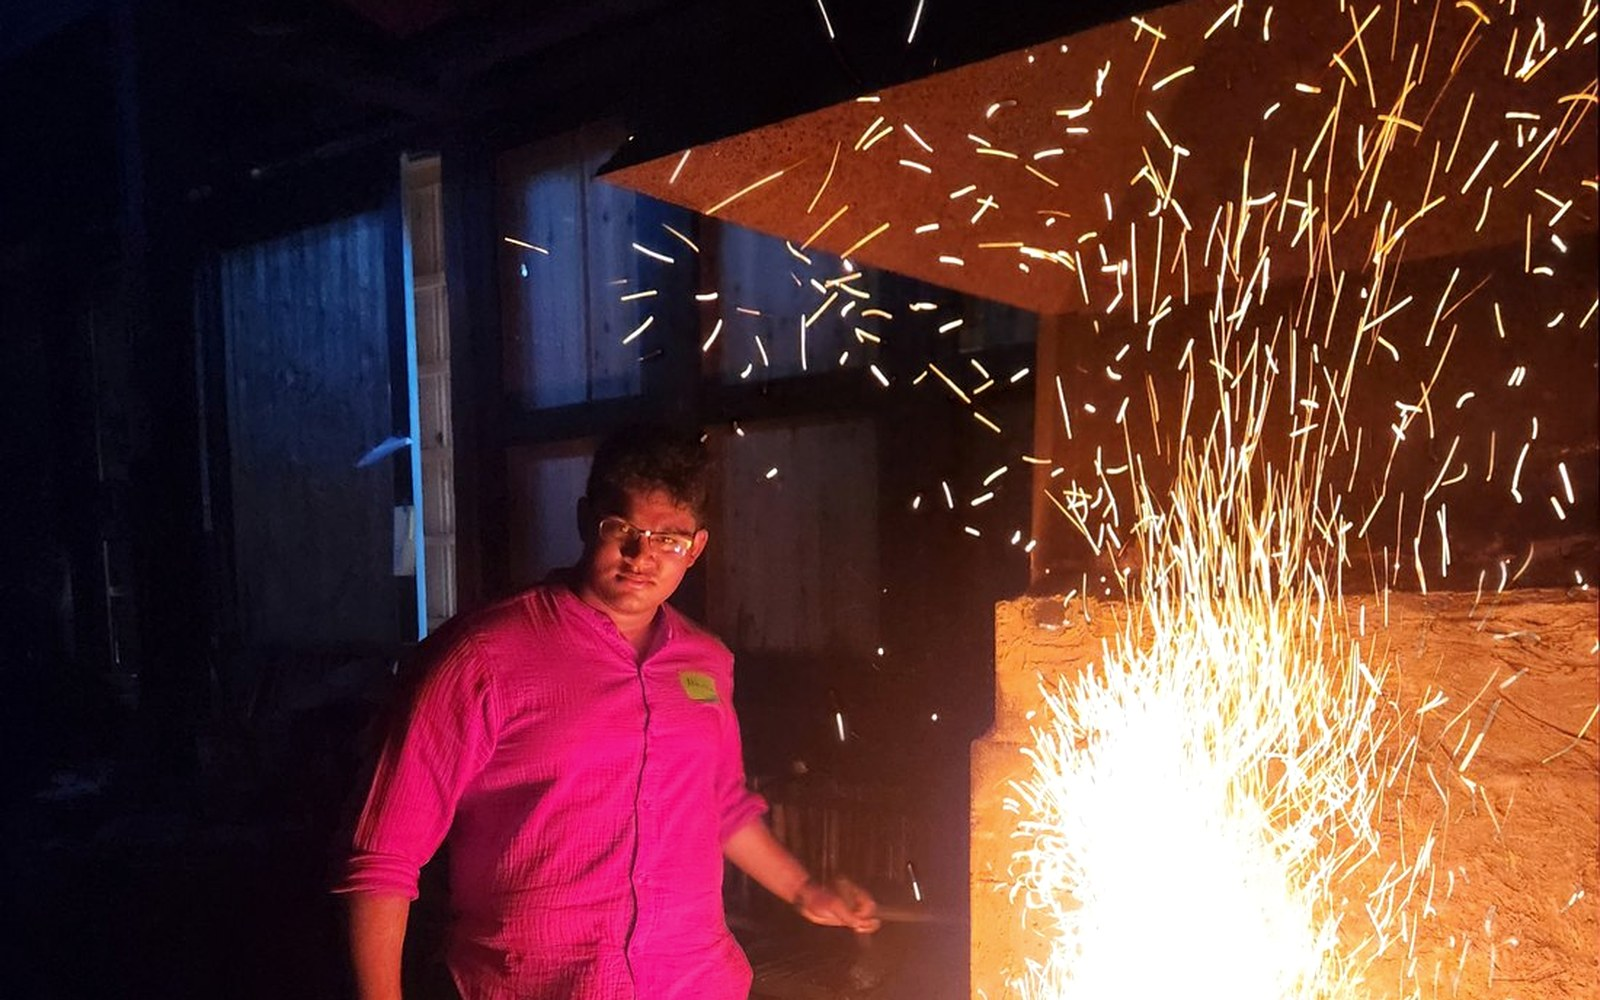
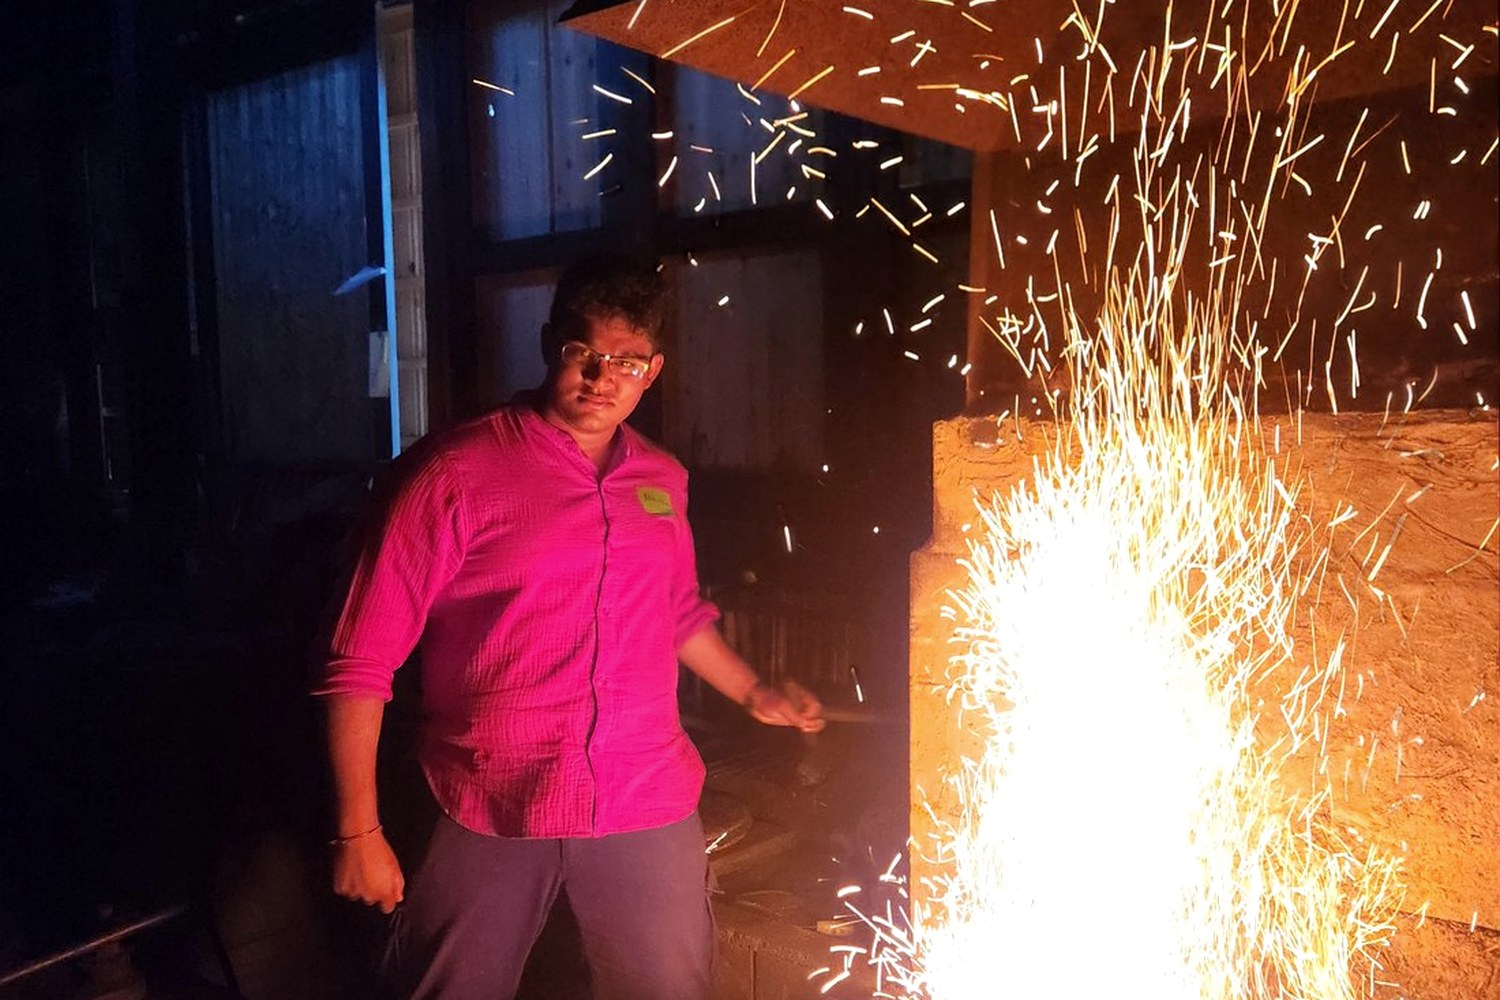
Enlarge and lower the desktop hero crop
Recrop the desktop hero to 3:2 with a lower anchor so head, torso and the
forge all show, and raise the hero height a little. Mobile crop unchanged.

diff --git a/assets/css/main.css b/assets/css/main.css
@@ -129,7 +129,7 @@ a:hover { text-decoration-thickness: 2px; }
 .hero {
   position: relative;
   width: 100%;
-  height: clamp(500px, 90vh, 880px);
+  height: clamp(560px, 96vh, 980px);
   overflow: hidden;
   background: #141210;
 }
@@ -137,7 +137,7 @@ a:hover { text-decoration-thickness: 2px; }
   position: absolute; inset: 0;
   width: 100%; height: 100%;
   object-fit: cover;
-  object-position: 50% 44%;
+  object-position: 50% 50%;
 }
 .hero::after {                       /* scrim: darken bottom-left for the text, keep the sparks bright */
   content: ""; position: absolute; inset: 0; pointer-events: none;

diff --git a/tools/build_images.py b/tools/build_images.py
@@ -104,7 +104,7 @@ for slug, src, va, ha in CARDS:
 print("\nHome hero (forge, Gifu Japan):")
 home = os.path.join(IMG, "home"); os.makedirs(home, exist_ok=True)
 src = load(os.path.join(IMG, "bladesmithing", "gifu-workshop.jpg"))     # 1100x1467
-d = grade(crop_fill(src, 16/10, v_anchor=0.28).resize((1600, 1000), Image.LANCZOS))
+d = grade(crop_fill(src, 3/2, v_anchor=0.44).resize((1500, 1000), Image.LANCZOS))
 save_pair(d, os.path.join(home, "hero-desktop"), jpg_q=88, webp_q=82)
 m = grade(crop_fill(src, 4/5, v_anchor=0.06).resize((1080, 1350), Image.LANCZOS))
 save_pair(m, os.path.join(home, "hero-mobile"), jpg_q=88, webp_q=82)
